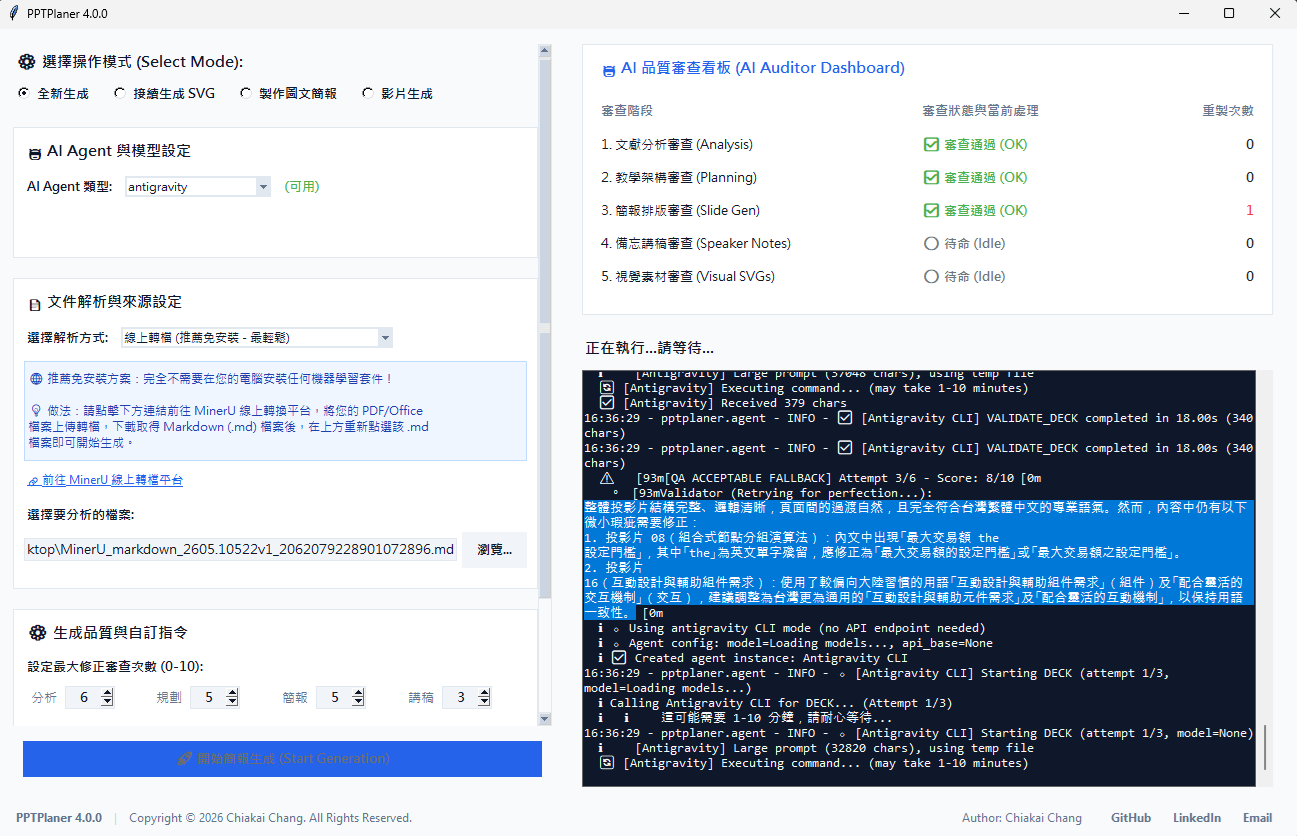
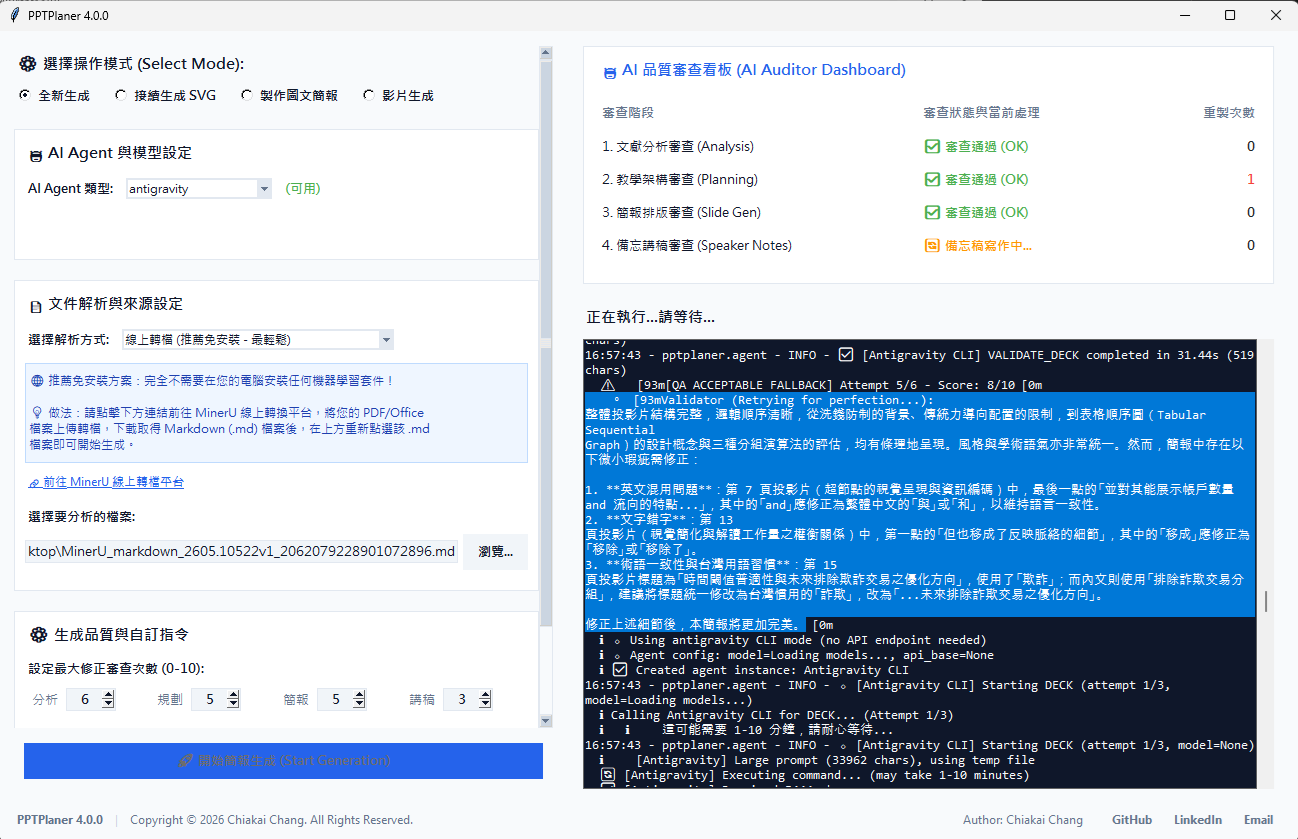
fix(agent/antigravity): resolve absolute path for agy to fix concurrent winpty execution error; docs: add perfect-pass UI screenshot and validator log comparison to README

diff --git a/agents/antigravity.py b/agents/antigravity.py
@@ -13,6 +13,7 @@ because Windows command line has a 8191 character limit.
 """
 import subprocess
 import os
+import shutil
 import time
 import re
 import logging
@@ -56,6 +57,37 @@ class AntigravityAdapter(AgentInterface):
         self.command_override = config.get("agent_config", {}).get("command_override")
         self._use_pywinpty = True  # Enable by default
         
+        # Resolve command path to absolute path for winpty reliability
+        cmd = self.command_override or self.COMMAND
+        self.resolved_command = cmd
+        found_cmd = shutil.which(cmd)
+        if found_cmd:
+            self.resolved_command = found_cmd
+        else:
+            if os.name == 'nt':
+                local_appdata = os.environ.get('LOCALAPPDATA', '')
+                if local_appdata:
+                    agy_paths = [
+                        os.path.join(local_appdata, 'agy', 'bin', 'agy.exe'),
+                        os.path.join(local_appdata, 'agy', 'bin', 'agy.EXE'),
+                    ]
+                    for agy_path in agy_paths:
+                        if os.path.exists(agy_path):
+                            self.resolved_command = agy_path
+                            break
+            else:
+                candidates = [
+                    "/usr/local/bin/agy",
+                    "/opt/homebrew/bin/agy",
+                    os.path.expanduser("~/.local/bin/agy"),
+                ]
+                for candidate in candidates:
+                    if os.path.exists(candidate):
+                        self.resolved_command = candidate
+                        break
+        
+        logger.info(f"[Antigravity] Resolved command to: '{self.resolved_command}'")
+        
         # Thread-safe cooldown tracking
         self._last_call_time = 0
         self._last_output_size = 0
@@ -94,7 +126,7 @@ class AntigravityAdapter(AgentInterface):
         
         Returns (cmd_string, temp_file_path)
         """
-        cmd_exe = self.command_override or self.COMMAND
+        cmd_exe = self.resolved_command
         
         # Create temp file with prompt
         temp_dir = os.path.join(os.getcwd(), "temp")
@@ -108,7 +140,7 @@ class AntigravityAdapter(AgentInterface):
         
         # Build command to read from file
         # Use type command to read file content as prompt
-        cmd_string = f'{cmd_exe} -p "@type {temp_file}" --dangerously-skip-permissions --print-timeout 600s'
+        cmd_string = f'"{cmd_exe}" -p "@type {temp_file}" --dangerously-skip-permissions --print-timeout 600s'
         
         return cmd_string, temp_file
     
@@ -117,7 +149,7 @@ class AntigravityAdapter(AgentInterface):
         
         Returns (cmd_string, temp_file_path)
         """
-        cmd_exe = self.command_override or self.COMMAND
+        cmd_exe = self.resolved_command
         
         # Escape special characters in prompt for shell
         escaped_prompt = prompt.replace('"', '\\"')

diff --git a/README.md b/README.md
@@ -12,19 +12,31 @@
 
 在最新版的 GUI 中，我們特別設計了**智慧品質審查看板 (AI Auditor Dashboard)**，將 AI 的審查與品質控制過程完全視覺化呈現在介面右側，讓使用者可以即時且透明地觀察到 AI 正在對生成的簡報進行哪些品質檢查與重製修正。
 
-以下是新版 GUI 的運行截圖，展示了該品質審查看板的工作狀態：
+以下是新版 GUI 的運行截圖與品質審查狀態對比，展示了品質審查看板在不同階段的表現：
 
-![PPTPlaner 新版 GUI 介面與 AI 品質審查看板](demo/demov4.png)
+````carousel
+![品質審查中且需要修正的畫面](demo/demov4.png)
+<!-- slide -->
+![品質審查完全通過並獲取滿分的畫面](demo/demov4_perfect.png)
+````
 
 ### 📝 品質審查真實案例 (Real-world Audit Log Example)
 
 在生成簡報的過程中，Validator 品管代理人如果發現瑕疵，會自動給出具體的修改回饋並進行重製。例如：
 
-> **🔍 Validator 審查結果反饋：**
+> **🔍 Validator 審查中（Retrying for perfection...）：**
 >
-> 「整體投影片結構完整、邏輯清晰，頁面間的過渡自然，且完全符合台灣繁體中文的專業語氣。然而，內容中仍有以下微小瑕疵需要修正：
-> 1. **投影片 08（組合式節點分組演算法）**：內文中出現「最大交易額 the 設定門檻」，其中「the」為英文單字殘留，應修正為「最大交易額的設定門檻」或「最大交易額之設定門檻」。
-> 2. **投影片 16（互動設計與輔助組件需求）**：使用了較偏向大陸習慣的用語「互動設計與輔助組件需求」（組件）及「配合靈活的交互機制」（交互），建議調整為台灣更為通用的「互動設計與輔助元件需求」及「配合靈活的互動機制」，以保持用語一致性。」
+> 「整體投影片結構完整，邏輯順序清晰，從洗錢防制的背景、傳統力導向配置的限制，到表格順序圖（Tabular Sequential Graph）的設計概念與三種分組演算法的評估，均有條理地呈現。風格與學術語氣亦非常統一。然而，簡報中存在以下微小瑕疵需修正：
+> 
+> 1. **英文混用問題**：第 7 頁投影片（超節點的視覺呈現與資訊編碼）中，最後一點的「並對其能展示帳戶數量 and 流向的特點...」，其中的「and」應修正為繁體中文的「與」或「和」，以維持語言一致性。
+> 2. **文字錯字**：第 13 頁投影片（視覺簡化與解讀工作量之權衡關係）中，第一點的「但也移成了反映脈絡的細節」，其中的「移成」應修正為「移除」或「移除了」。
+> 3. **術語一致性與台灣用語習慣**：第 15 頁投影片標題為「時間閾值普適性與未來排除欺詐交易之優化方向」，使用了「欺詐」；而內文則使用「排除詐欺交易分組」，建議將標題統一修改為台灣慣用的「詐欺」，改為「...未來排除詐欺交易之優化方向」。
+> 
+> 修正上述細節後，本簡報將更加完美。」
+
+> **🏆 Validator 審查通過（QA PERFECT PASS - Score: 10/10）：**
+>
+> 「完美達成 MECE，各章節獨立且完整覆蓋了原始論文中關於 Tabular Sequential Graph 的設計概念、視覺元素編碼、三種節點群組化演算法、案例效果評估與專家用戶偏好，以及最後的討論與未來優化方向。簡報大綱邏輯非常嚴謹且敘事流暢。」
 
 透過此 Generator-Validator 的自我修正迴圈，系統會在背景自動將修正意見餵回給 Generator 並重跑該投影片，直到品質完全符合驗收標準，才正式寫入最終檔案，確保每一頁投影片都具備最高水準的品質。
 
